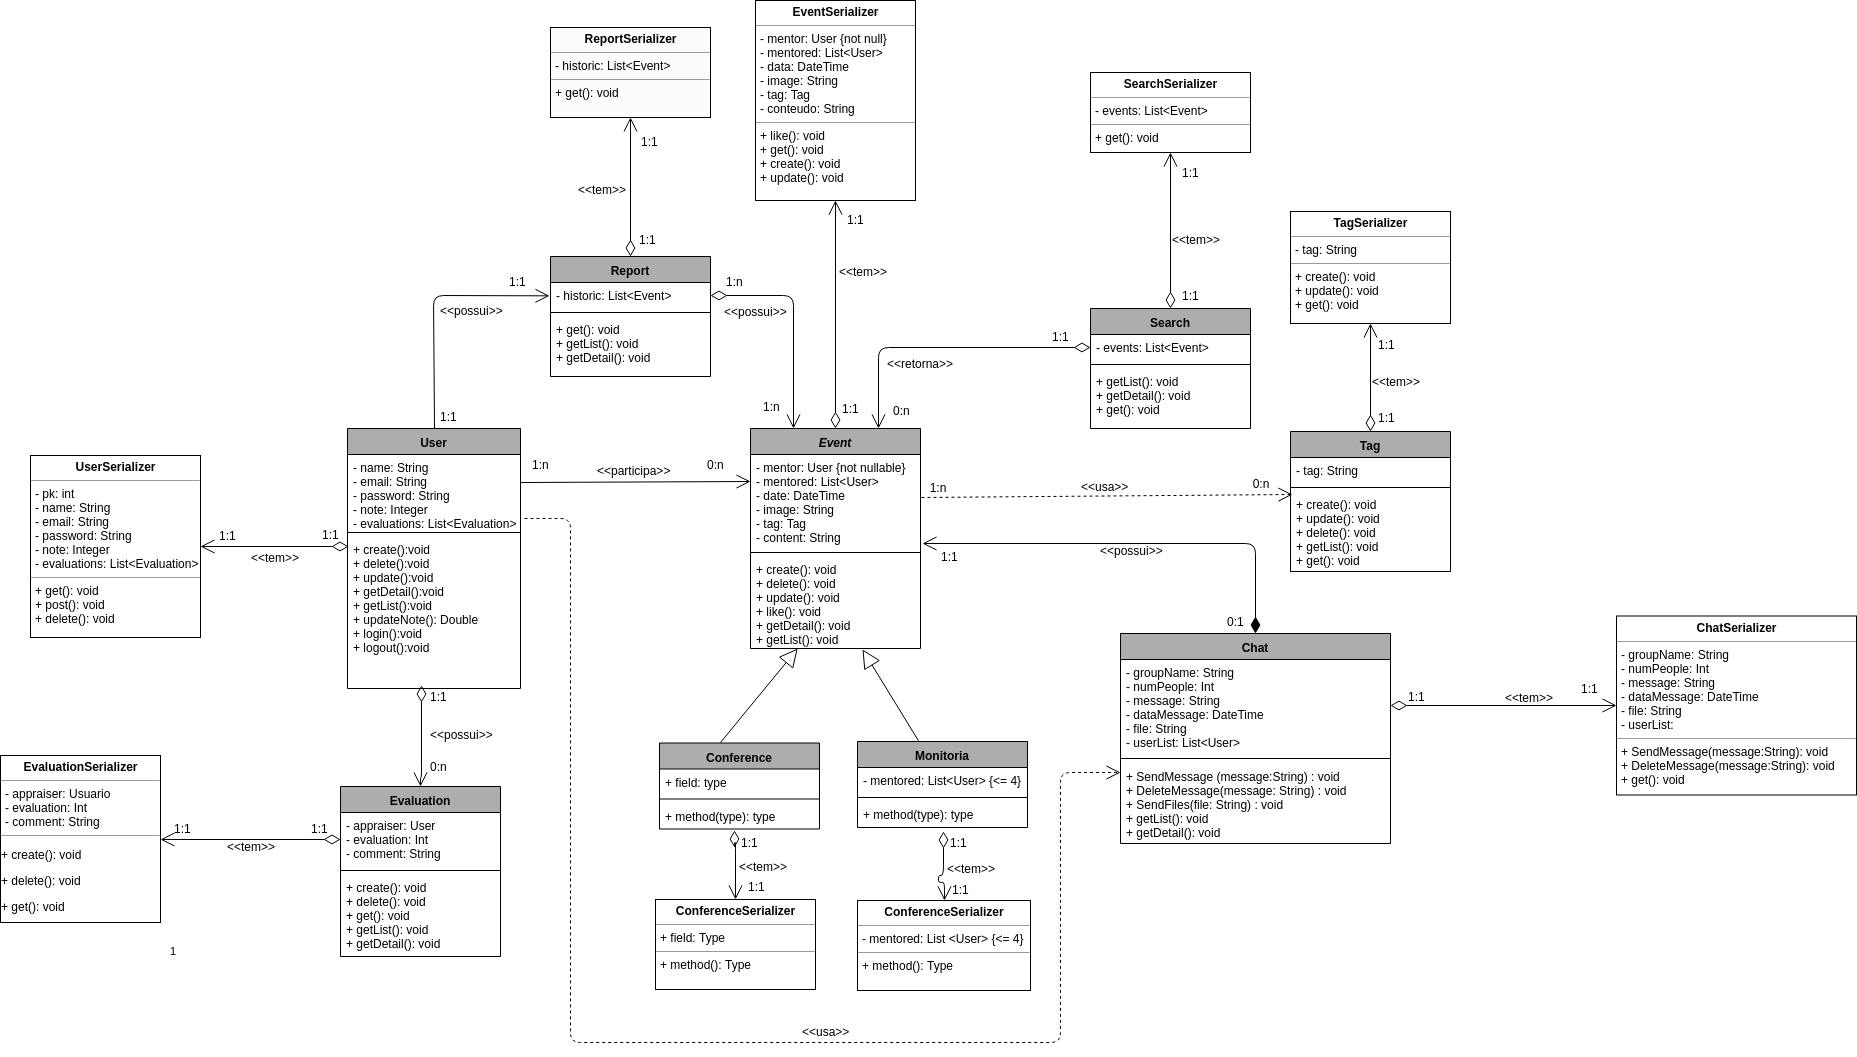
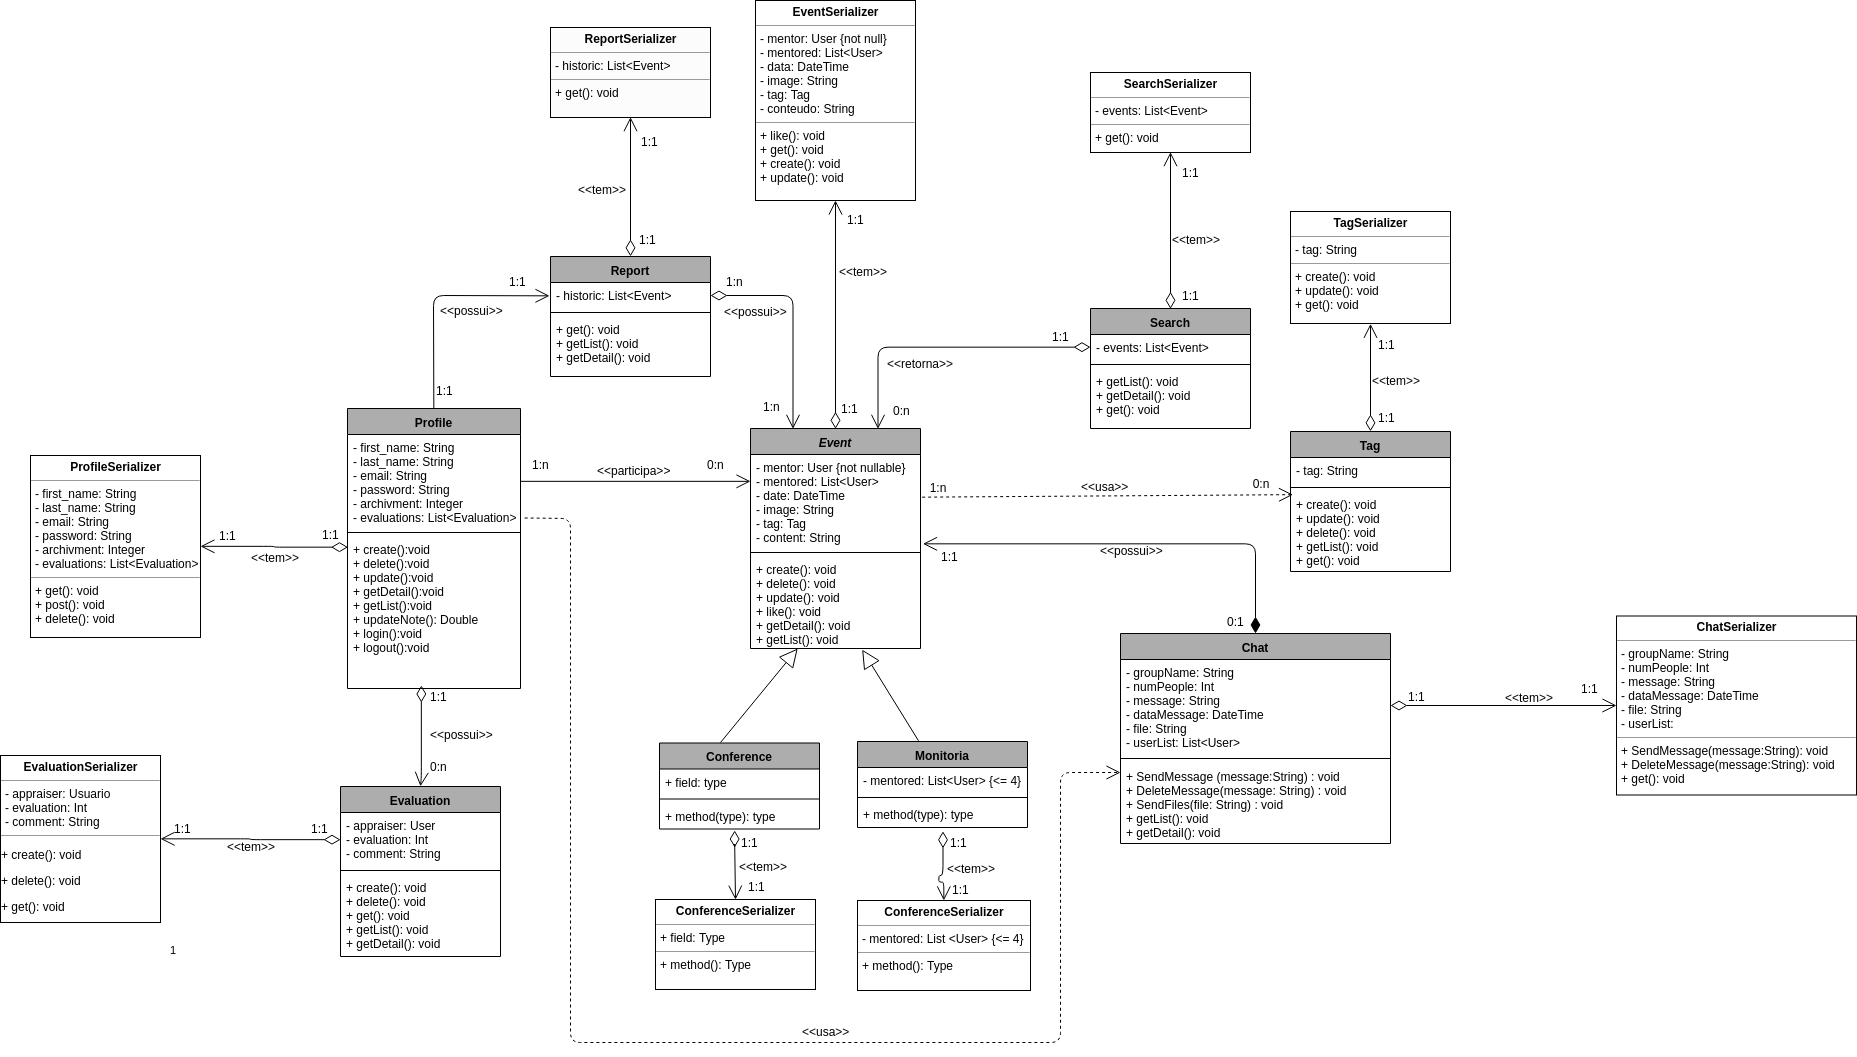
#63 Update class diagram and adding the pattern project

Changed region(s): [[0.8745, 0.5932, 0.9995, 0.7493], [0.1874, 0.3746, 0.2811, 0.4995], [0.0312, 0.4371, 0.0937, 0.5307]]

diff --git a/src/assets/files/dinamica04/padroes_projeto.md b/src/assets/files/dinamica04/padroes_projeto.md
@@ -1,0 +1,7 @@
+
+|Padrão GOFs|Forma aplicada|Classe aplicada|Explicação|
+|:-----------:|:-----------:|:---------:|
+|Template method|	O padrão template foi aplicado utilizando class based views, o padrão do python para template não é "purista" e permite sobreescrita do metodo template.|	Class based views de Events e Profile	| O metodo api_view() presente em todas as views.py|
+|Facade	|O django utiliza de roteamento de urls centralizados em uma fachada no arquivo urls.py (uma facade por app e uma geral do projeto)|	Class based views de Events e Profile	|As requisições são centralizadas pelo servidor Django que chama a classe view mapeada para o padrão de URL.|
+|Command|	O padrão command foi aplicado através da utilização do componente HttpRequest do próprio Django, que encapsula um request em um objeto, sendo aplicado em todas as class based views da aplicação e evidenciado na view de profile.	|Class based views de Events e Profile |	Quando é feita uma requisição de uma página, o django cria um objeto do tipo HttpRequest que contém os metadados sobre a requisição, carregando em seguida a view apropriada passando o HttpRequest como argumento inicial para a função da view. Cada view é responsável por retornar um objeto HttpResponse.|
+|Decorator	| ||||
